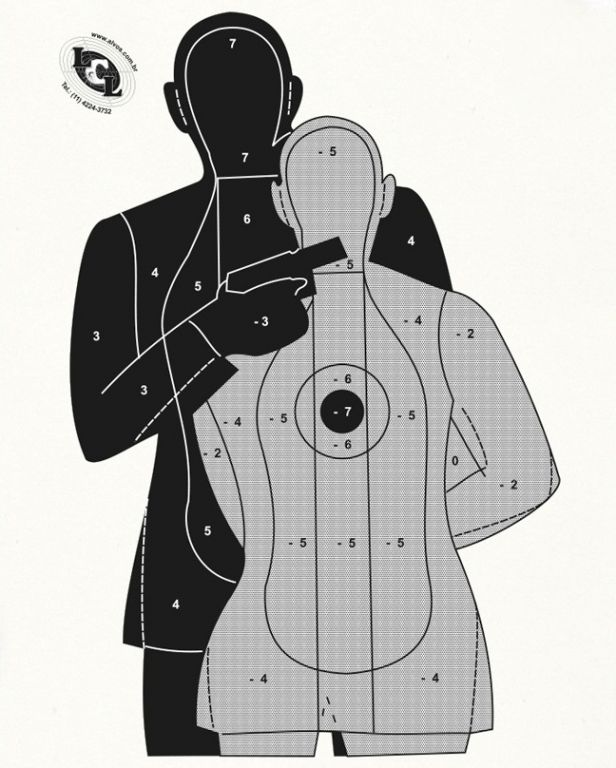
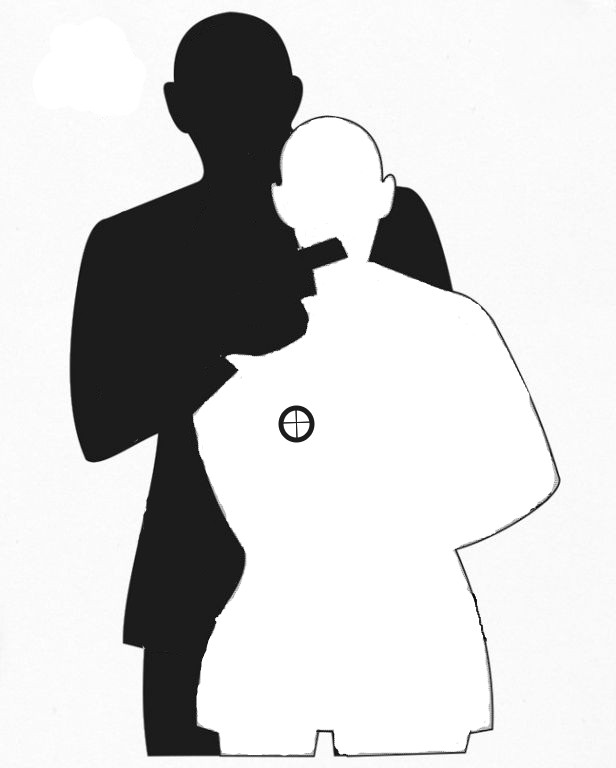
added human target

diff --git a/scripts/contours.py b/scripts/contours.py
@@ -1,0 +1,15 @@
+import numpy as np
+import cv2
+
+img = cv2.imread("target/data/human_bw_cnt.jpg")
+gray = cv2.cvtColor(img, cv2.COLOR_BGR2GRAY)
+
+ret, thresh = cv2.threshold(gray, 127, 255, 0)
+cnts, h = cv2.findContours(thresh, cv2.RETR_TREE, cv2.CHAIN_APPROX_SIMPLE)
+cnts = sorted(cnts, key = lambda x: cv2.contourArea(x), reverse=True)
+
+#np.save("human.npy", cnts, allow_pickle=True)
+for cnt in cnts:
+    cnt_img = cv2.drawContours(img.copy(), [cnt], 0, (0,255,0), 3) 
+    cv2.imshow("cnt", cnt_img)
+    cv2.waitKey()
